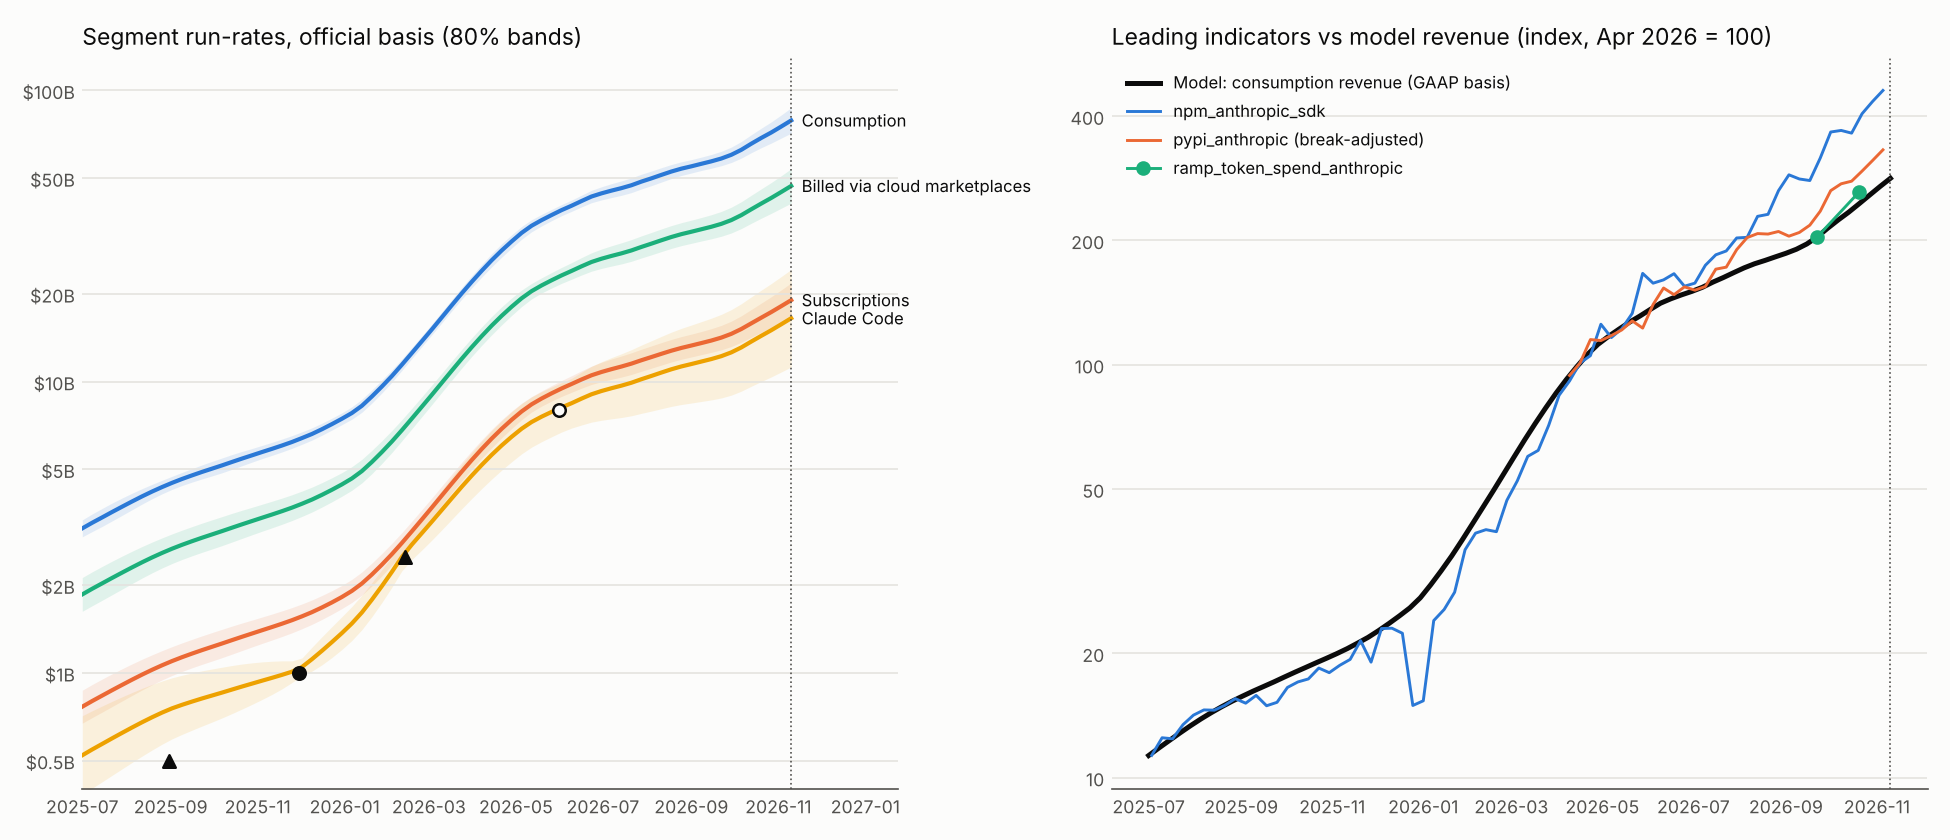
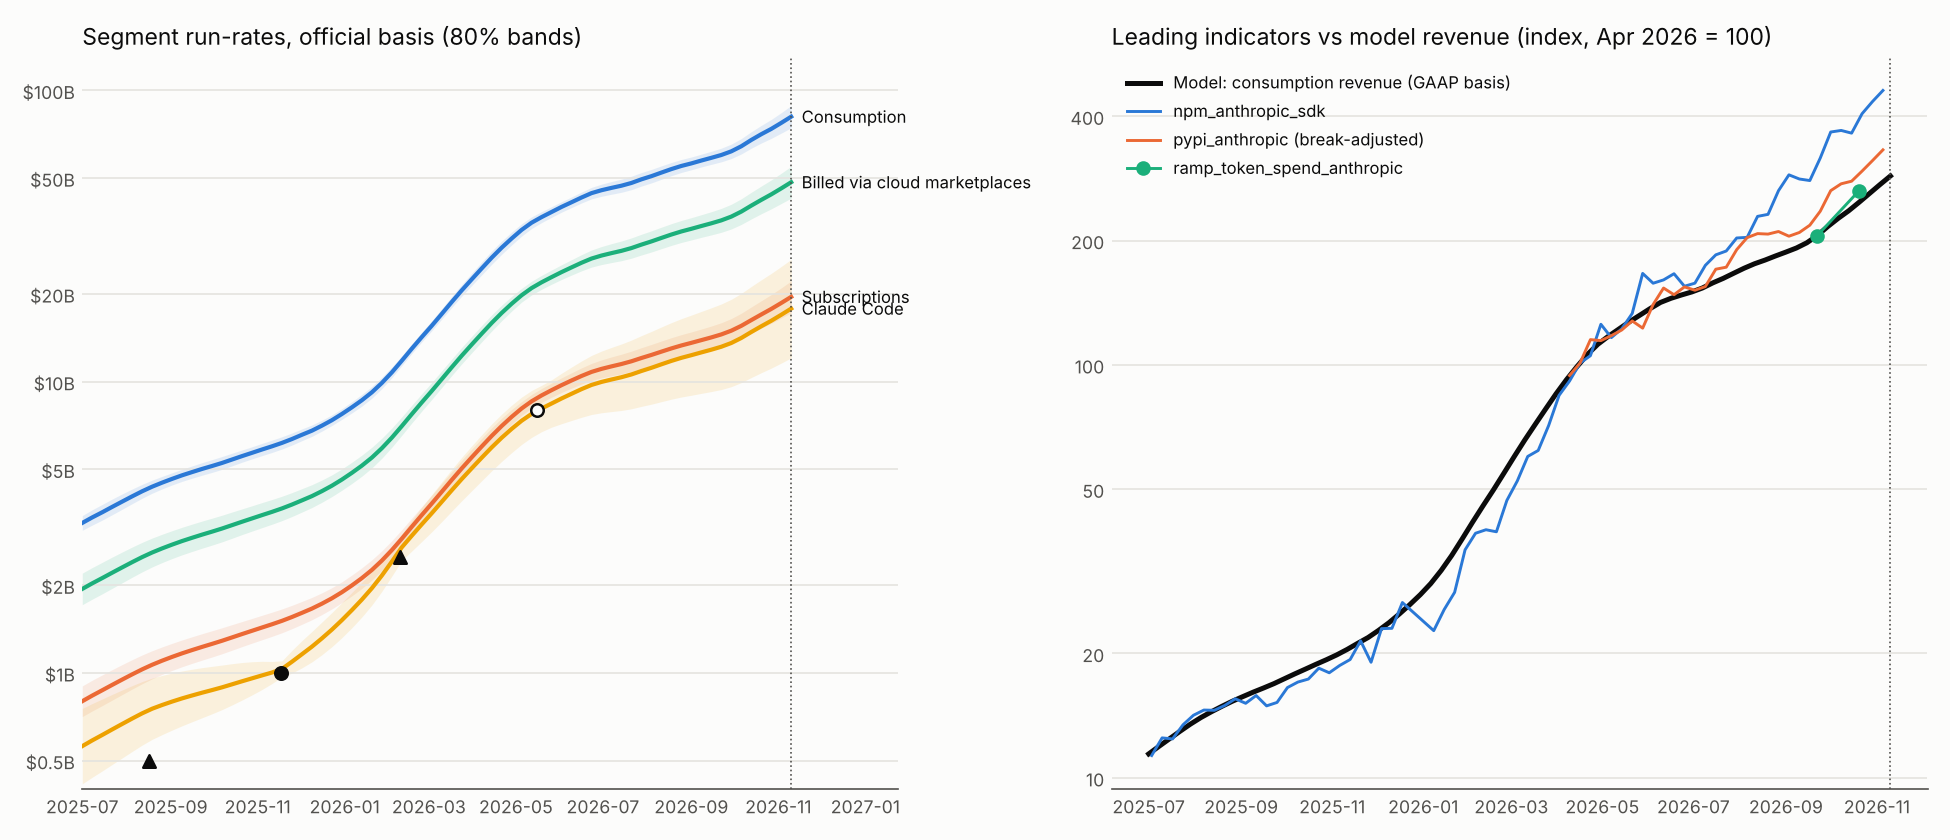
Regenerate 2026-11-10 report with spec-averaged, calibrated headline
Claude-Session: https://claude.ai/code/session_015VYmrmy85RRK3RPhYBL95Z

diff --git a/runrate_nowcast/reports/nowcast_2026-11-10.md b/runrate_nowcast/reports/nowcast_2026-11-10.md
@@ -2,19 +2,37 @@
 
 Units: $B. Intervals are 80% (q10 to q90). The **GAAP basis** is the instantaneous annualized revenue that matches the S-1 quarterly revenue. The **official basis** applies Anthropic's run-rate definition (trailing 28 days ×13, a 14-day lag) plus the estimated gap b, so it is the number the company would announce on that date.
 
-Parameters: sigma_l=0.0036, sigma_g=0.0169, sigma_b=0.0019, growth reversion kappa=0.150/month toward 0.03; 158 observations used after dedup (130 indicator-weeks); smoother converged in 5 passes.
+Parameters: sigma_l=0.0033, sigma_g=0.0162, sigma_b=0.0018, growth reversion kappa=0.094/month toward 0.03; 155 observations used after dedup (127 indicator-weeks); smoother converged in 5 passes.
 
-## Run-rate
+## Headline (averaged over specifications)
+
+The audit (reports/audit_*.md) found the nowcast sensitive to choices the data cannot pin down: indicator lead/lag, elasticity and drift, third-party noise, and the run-rate definition lag. Instead of picking one, they are integrated over a grid, each specification weighted by prior × online-filter likelihood (robust.py).
+
+| Quantity | Spec-averaged (80%) | Calibrated to out-of-sample error |
+|---|---|---|
+| Run-rate, official basis, 2026-10-31 | 95.9 [87.4, 105.6] | [82.2, 112.6] |
+| Run-rate, official basis, 2026-11-10 | 103.0 [92.8, 115.2] | [86.5, 124.2] |
+| Revenue 2026-10-01..2026-12-31 | 29.5 [25.3, 34.0] | [22.5, 37.0] |
+
+Posterior weight by indicator lag (days; + = indicator trails revenue): -14: 5%, -7: 15%, +0: 35%, +7: 38%, +14: 7%.
+Posterior weight by elasticity beta: 0.85: 23%, 1: 67%, 1.15: 10%.
+Posterior weight by drift multiplier: 0.5: 0%, 0.7: 0%, 1: 99%, 1.4: 1%.
+Posterior weight by third-party noise: 0.08: 21%, 0.15: 42%, 0.3: 36%.
+Posterior weight by run-rate definition lag (days): 7: 76%, 14: 24%.
+Top specifications: lag +7, beta 1.00, drift ×1, third-party sd 0.15, definition lag 7 (9%); lag +0, beta 1.00, drift ×1, third-party sd 0.15, definition lag 7 (8%); lag +7, beta 1.00, drift ×1, third-party sd 0.3, definition lag 7 (7%).
+Calibrated column: the strict out-of-sample backtest had z sd = 1.67, so model intervals are widened by that factor (n = 13 targets, so this factor is itself uncertain).
+
+## Run-rate (single fitted specification)
 
 | Date | GAAP basis (instantaneous) | Official basis (t28×13 + b) | Growth (log/month) |
 |---|---|---|---|
-| 2026-06-30 | 57.0 [54.8, 59.2] | 55.1 [52.4, 57.9] | +0.099 ± 0.043 |
-| 2026-09-30 | 81.4 [76.9, 86.1] | 75.1 [70.9, 79.6] | +0.194 ± 0.055 |
-| 2026-10-31 | 99.9 [90.6, 110.2] | 91.5 [84.0, 99.6] | +0.204 ± 0.073 |
-| 2026-11-10 | 106.7 [94.9, 120.1] | 98.0 [88.8, 108.1] | +0.196 ± 0.086 |
-| 2026-12-31 (forecast) | 143.6 [107.5, 191.8] | 134.3 [106.0, 170.1] | +0.159 ± 0.126 |
+| 2026-06-30 | 56.7 [54.8, 58.7] | 56.5 [53.9, 59.1] | +0.092 ± 0.040 |
+| 2026-09-30 | 81.9 [78.0, 86.0] | 77.2 [73.2, 81.5] | +0.196 ± 0.049 |
+| 2026-10-31 | 100.7 [92.6, 109.4] | 94.0 [87.2, 101.4] | +0.211 ± 0.067 |
+| 2026-11-10 | 107.9 [97.5, 119.3] | 100.8 [92.5, 109.9] | +0.206 ± 0.081 |
+| 2026-12-31 (forecast) | 149.1 [113.5, 195.8] | 141.2 [113.4, 175.6] | +0.180 ± 0.128 |
 
-Gap b between official run-rate and GAAP at 2026-11-10: +0.008 ± 0.037 (official ≈ GAAP basis × 1.008)
+Gap b between official run-rate and GAAP at 2026-11-10: +0.030 ± 0.035 (official ≈ GAAP basis × 1.030)
 
 ## Segments (official basis)
 
@@ -22,10 +40,10 @@ Only consumption vs subscription is audited (S-1, H1 2026). Cloud channel and Cl
 
 | Segment | Share 2026-09-30 | Share 2026-11-10 | Run-rate 2026-09-30 | Run-rate 2026-11-10 |
 |---|---|---|---|---|
-| Consumption (API, cloud, metered apps) | 80.6% [79%, 82%] | 80.5% [79%, 82%] | 60.4 [56.8, 64.2] | 78.8 [71.3, 87.2] |
-| Subscriptions (Pro/Max/Team/Enterprise seats) | 19.5% [18%, 21%] | 19.4% [18%, 21%] | 14.7 [13.3, 16.2] | 19.0 [16.6, 21.8] |
-| Billed via cloud marketplaces (overlay) | 48.0% [44%, 52%] | 48.0% [44%, 53%] | 36.0 [32.5, 39.9] | 47.0 [41.0, 53.8] |
-| Claude Code (product overlay) | 16.9% [12%, 24%] | 16.9% [11%, 25%] | 12.7 [9.0, 17.8] | 16.5 [11.2, 24.3] |
+| Consumption (API, cloud, metered apps) | 80.7% [79%, 82%] | 80.6% [79%, 83%] | 62.1 [58.6, 65.7] | 81.2 [74.4, 88.7] |
+| Subscriptions (Pro/Max/Team/Enterprise seats) | 19.4% [18%, 21%] | 19.4% [18%, 21%] | 15.0 [13.7, 16.6] | 19.5 [17.2, 22.2] |
+| Billed via cloud marketplaces (overlay) | 48.0% [44%, 52%] | 48.0% [44%, 53%] | 37.0 [33.6, 40.9] | 48.4 [42.7, 54.9] |
+| Claude Code (product overlay) | 17.7% [12%, 25%] | 17.7% [12%, 26%] | 13.6 [9.6, 19.3] | 17.8 [12.1, 26.3] |
 
 ## Leading indicators
 
@@ -33,18 +51,18 @@ Each indicator: log(I) = a + beta·log(segment revenue) + noise, with a drifting
 
 | Indicator | Segment | beta | Latest week | 4-week change | Read as revenue | Model revenue (same weeks) |
 |---|---|---|---|---|---|---|
-| npm_anthropic_sdk | api | 1.00 | 2026-11-05 | +22.3% | +22.3% | +18.7% |
-| pypi_anthropic | api | 1.00 | 2026-11-05 | +18.9% | +18.9% | +18.7% |
-| ramp_token_spend_anthropic | api | 0.83 | 2026-10-20 | +25.0% | +30.0% | +18.4% |
+| npm_anthropic_sdk | api | 0.96 | 2026-11-05 | +22.3% | +23.3% | +19.0% |
+| pypi_anthropic | api | 1.08 | 2026-11-05 | +18.9% | +17.6% | +19.0% |
+| ramp_token_spend_anthropic | api | 0.93 | 2026-10-20 | +25.0% | +27.0% | +18.5% |
 
 ## Forecast claims vs the model (not used in the filter; scored for track record)
 
 | Claim | Made | Target date | Horizon | Claim value | Model (official basis) | Claim / model |
 |---|---|---|---|---|---|---|
-| rr_2025_10_target | 2025-10-16 | 2025-12-31 | 2.5 mo | 9 | 9.3 [9.0, 9.7] | 0.96 |
-| fc_reuters_2025_10_2026 | 2025-10-16 | 2026-12-31 | 14.5 mo | 23 | 134.3 [106.0, 170.1] | 0.17 |
-| fc_ft_2026_08 | 2026-08-17 | 2026-12-31 | 4.5 mo | 110 | 134.3 [106.0, 170.1] | 0.82 |
-| fc_nyt_2026_09 | 2026-09-30 | 2026-12-31 | 3.0 mo | >100 | 134.3 [106.0, 170.1] | 0.74 |
+| rr_2025_10_target | 2025-10-16 | 2025-12-31 | 2.5 mo | 9 | 9.7 [9.4, 10.1] | 0.93 |
+| fc_reuters_2025_10_2026 | 2025-10-16 | 2026-12-31 | 14.5 mo | 23 | 141.2 [113.4, 175.6] | 0.16 |
+| fc_ft_2026_08 | 2026-08-17 | 2026-12-31 | 4.5 mo | 110 | 141.2 [113.4, 175.6] | 0.78 |
+| fc_nyt_2026_09 | 2026-09-30 | 2026-12-31 | 3.0 mo | >100 | 141.2 [113.4, 175.6] | 0.71 |
 
 ## Revenue by period
 
@@ -57,24 +75,24 @@ Each indicator: log(I) = a + beta·log(segment revenue) + noise, with a drifting
 | 2026-01-01..2026-03-31 | 4.73 | [4.71, 4.75] | GAAP disclosed |
 | 2026-04-01..2026-06-30 | 11.55 | [11.51, 11.60] | GAAP disclosed |
 | 2026-07-01..2026-09-30 | 16.96 | [16.90, 17.03] | GAAP disclosed |
-| 2026-07-01..2026-07-31 | 5.12 | [4.94, 5.30] | estimate |
-| 2026-08-01..2026-08-31 | 5.70 | [5.59, 5.81] | estimate |
-| 2026-09-01..2026-09-30 | 6.14 | [5.92, 6.37] | estimate |
-| 2026-10-01..2026-10-31 | 7.67 | [7.11, 8.25] | estimate |
-| 2026-11-01..2026-11-30 | 9.11 | [7.96, 10.33] | forecast |
-| 2026-12-01..2026-12-31 | 11.41 | [8.94, 14.10] | forecast |
-| 2026-10-01..2026-12-31 | 28.19 | [24.20, 32.42] | forecast |
-| 2026-01-01..2026-12-31 | 61.44 | [57.36, 65.63] | forecast |
+| 2026-07-01..2026-07-31 | 5.09 | [4.94, 5.25] | estimate |
+| 2026-08-01..2026-08-31 | 5.70 | [5.60, 5.79] | estimate |
+| 2026-09-01..2026-09-30 | 6.17 | [5.98, 6.37] | estimate |
+| 2026-10-01..2026-10-31 | 7.72 | [7.23, 8.21] | estimate |
+| 2026-11-01..2026-11-30 | 9.22 | [8.20, 10.28] | forecast |
+| 2026-12-01..2026-12-31 | 11.70 | [9.36, 14.24] | forecast |
+| 2026-10-01..2026-12-31 | 28.64 | [24.99, 32.47] | forecast |
+| 2026-01-01..2026-12-31 | 61.88 | [58.17, 65.68] | forecast |
 
 ## Bound claims: how likely is each one true? (evaluated by a model that never saw it)
 
 | Claim | Source tier | Probability true |
 |---|---|---|
-| rr_2025_08: run_rate > 5 @ 2025-08-31 | official | 95% |
-| cc_2025_08: run_rate > 0.5 @ 2025-08-31 | official | 96% |
-| cc_2026_02: run_rate > 2.5 @ 2026-02-12 | official | 8% |
-| rr_2026_07: run_rate > 65 @ 2026-07-31 | leak_tier1 | 16% |
-| rr_2026_10_wsj: run_rate > 80 @ 2026-10-31 | leak_single | 77% |
+| rr_2025_08: run_rate > 5 @ 2025-08-16 | official | 80% |
+| cc_2025_08: run_rate > 0.5 @ 2025-08-17 | official | 95% |
+| cc_2026_02: run_rate > 2.5 @ 2026-02-09 | official | 11% |
+| rr_2026_07: run_rate > 65 @ 2026-07-28 | leak_tier1 | 18% |
+| rr_2026_10_wsj: run_rate > 80 @ 2026-10-28 | leak_single | 80% |
 
 ## In-sample fit by claim (smoothed)
 
@@ -82,33 +100,34 @@ z = (claim − fitted)/sd. A point claim conflicts with everything else when |z|
 
 | obs_id | segment | tier | kind | claim | fitted | z | conflict |
 |---|---|---|---|---|---|---|---|
-| rev_2025q1 | total | gaap | point | 0.376 | 0.38 | -0.02 |  |
-| rr_2025_05 | total | leak_tier1 | point | 3 | 3.10 | -0.31 |  |
-| rev_2025q2 | total | gaap | point | 0.787 | 0.79 | -0.01 |  |
-| rr_2025_08 | total | official | lower | 5 | 5.55 | -1.79 |  |
-| cc_2025_08 | claude_code | official | lower | 0.5 | 0.75 | -2.07 |  |
-| rev_2025q3 | total | gaap | point | 1.382 | 1.38 | -0.05 |  |
-| rr_2025_10 | total | official | point | 7 | 7.03 | -0.07 |  |
-| cc_2025_11 | claude_code | official | point | 1 | 1.03 | -0.37 |  |
-| rr_2025_12 | total | official | point | 9 | 9.34 | -0.53 |  |
-| rev_2025fy | total | gaap | point | 4.59 | 4.59 | +0.13 |  |
-| rr_2026_02 | total | official | point | 14 | 14.59 | -0.51 |  |
-| cc_2026_02 | claude_code | official | lower | 2.5 | 2.59 | -0.30 |  |
-| rr_2026_03 | total | official | point | 19 | 18.30 | +0.35 |  |
-| rr_2026_04 | total | official | point | 30 | 28.46 | +0.65 |  |
-| rev_2026q1 | total | gaap | point | 4.729 | 4.73 | -0.02 |  |
+| rr_2025_01 | total | official | point | 1 | 1.01 | -0.11 |  |
+| rev_2025q1 | total | gaap | point | 0.376 | 0.38 | -0.03 |  |
+| rr_2025_05 | total | leak_tier1 | point | 3 | 2.85 | +0.48 |  |
+| rev_2025q2 | total | gaap | point | 0.787 | 0.79 | -0.03 |  |
+| rr_2025_08 | total | official | lower | 5 | 5.35 | -0.97 |  |
+| cc_2025_08 | claude_code | official | lower | 0.5 | 0.75 | -2.00 |  |
+| rev_2025q3 | total | gaap | point | 1.382 | 1.38 | -0.06 |  |
+| rr_2025_10 | total | official | point | 7 | 6.99 | +0.02 |  |
+| cc_2025_11 | claude_code | official | point | 1 | 1.02 | -0.33 |  |
+| rr_2025_12 | total | official | point | 9 | 9.49 | -1.04 |  |
+| rev_2025fy | total | gaap | point | 4.59 | 4.59 | +0.17 |  |
+| rr_2026_02 | total | official | point | 14 | 14.49 | -0.62 |  |
+| cc_2026_02 | claude_code | official | lower | 2.5 | 2.66 | -0.68 |  |
+| rr_2026_03 | total | official | point | 19 | 17.25 | +1.12 |  |
+| rr_2026_04 | total | official | point | 30 | 24.31 | +1.54 |  |
+| rev_2026q1 | total | gaap | point | 4.729 | 4.73 | -0.03 |  |
 | rev_2026q1_fortune | total | leak_tier1 | point | 4.73 | 4.73 | +0.00 |  |
-| rr_2026_05 | total | official | point | 47 | 42.64 | +1.23 |  |
 | seg_sub_h1_2026 | subscription | gaap | point | 0.196 | 0.20 | -0.01 |  |
-| seg_cloud_h1_2026 | cloud | gaap | point | 0.48 | 0.48 | +0.02 |  |
-| cc_2026_05 | claude_code | third_party | point | 8 | 8.35 | -0.18 |  |
-| rev_2026q2 | total | gaap | point | 11.555 | 11.55 | +0.01 |  |
+| seg_cloud_h1_2026 | cloud | gaap | point | 0.48 | 0.48 | +0.01 |  |
+| rr_2026_05 | total | official | point | 47 | 44.59 | +0.70 |  |
+| cc_2026_05 | claude_code | third_party | point | 8 | 8.27 | -0.15 |  |
+| rev_2026q2 | total | gaap | point | 11.555 | 11.55 | +0.02 |  |
 | rev_2026q2_prelim | total | leak_tier1 | point | 11.5 | 11.55 | -0.06 |  |
-| rr_2026_07 | total | leak_tier1 | lower | 65 | 61.22 | +0.65 |  |
+| rr_2026_07 | total | leak_tier1 | lower | 65 | 61.57 | +0.61 |  |
 | rev_2026q3 | total | gaap | point | 16.96 | 16.96 | -0.04 |  |
-| rr_2026_10_semi | total | third_party | point | 74 | 86.31 | -0.71 |  |
-| rr_2026_10_sacra70 | total | third_party | point | 70 | 86.31 | -0.97 |  |
-| rr_2026_10_wsj | total | leak_single | lower | 80 | 91.47 | -0.81 |  |
+| rr_2026_10_sacra70 | total | third_party | point | 70 | 89.32 | -1.35 |  |
+| rr_2026_10_semi | total | third_party | point | 74 | 89.87 | -1.06 |  |
+| rr_2026_10_wsj | total | leak_single | lower | 80 | 92.16 | -0.88 |  |
 
 ## Rows not used
 
